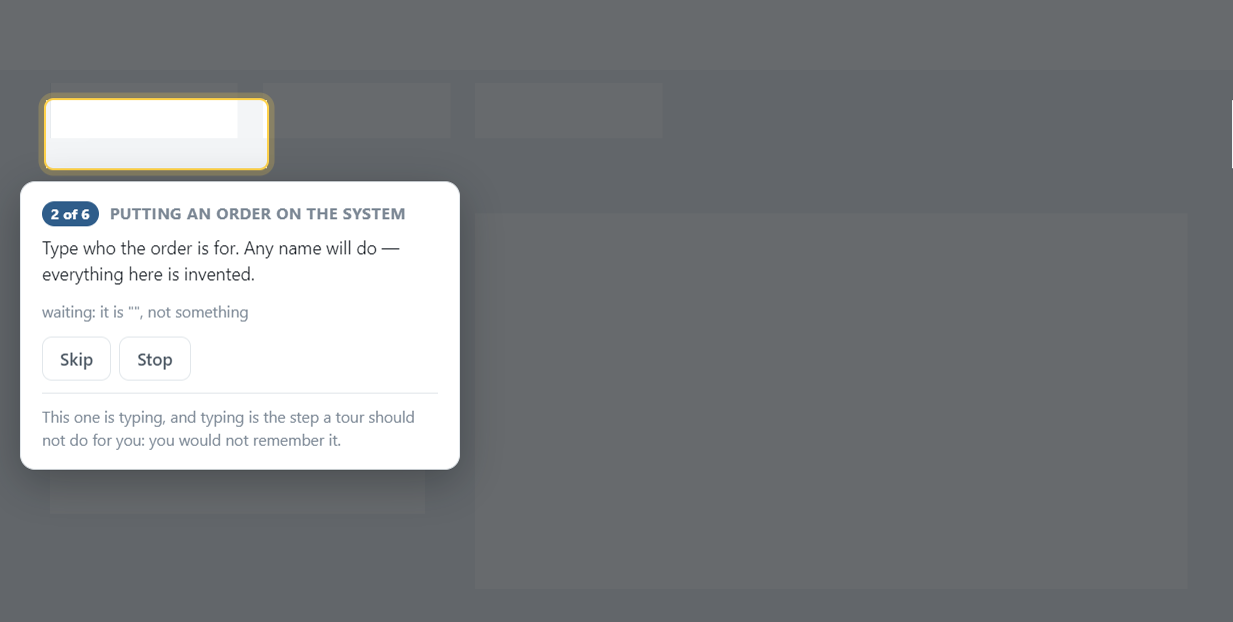
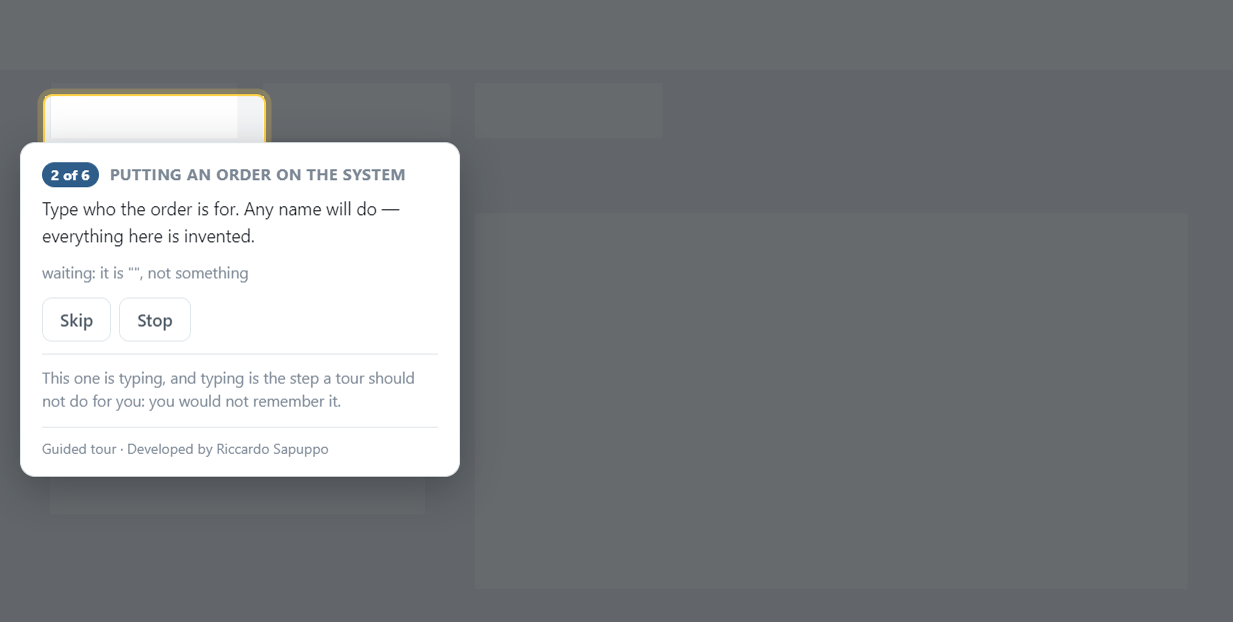
The commands the README documents now actually run
`npm run demo` did not start anything. It said `electron demo/main.js` and the
demo is a PowerShell script — so the very first command a reader types failed
with MODULE_NOT_FOUND. It was in the README, it was in the package, and it had
never once been run.

`npm start` failed too, in an environment where ELECTRON_RUN_AS_NODE is set:
the Electron binary behaves as a plain Node, `electron`'s main export is the
path to itself, and the failure is inside Node's own module loader before a
line of `tour/main.js` executes. Nothing in that file can catch it, so both
commands are launchers now — which is also where a sentence can be printed
instead of a stack trace.

And the attribution was missing entirely. It is at the foot of the card, with
the version read from package.json rather than written down a second time.

Two more things while proving those:

- The walkthrough starts the invented application itself if it is not up, so it
  runs from nothing and CI is one line rather than three.
- It printed the TITLES of every window on the desktop when it could not find
  the right one. A check's output gets pasted into a message to somebody, and
  those titles say what a person was doing, what they had open and who they
  work for. It says how many now.

diff --git a/tour/main.js b/tour/main.js
@@ -32,6 +32,29 @@ import { fileURLToPath } from 'node:url';
 import { accessibility } from '../src/locate/uia.js';
 import { isFinished, watching, whatIsWrongWith, whatToRead } from '../src/tour/steps.js';
 
+/**
+ * Running under Node instead of Electron, which is a sentence rather than a
+ * stack trace.
+ *
+ * `ELECTRON_RUN_AS_NODE` makes the Electron binary behave as a plain Node, and
+ * some tools set it in the environment they hand to their children. When it is
+ * set, `import { app } from 'electron'` gives back the PATH to the binary — a
+ * string — and the first line that touches it dies on
+ * "Cannot read properties of undefined (reading 'whenReady')".
+ *
+ * That message sent me looking for a bug in this file for twenty minutes. It is
+ * two lines to say what actually happened.
+ */
+if (typeof app?.whenReady !== 'function') {
+  console.error('This is being run as plain Node rather than as Electron.');
+  console.error(
+    process.env.ELECTRON_RUN_AS_NODE
+      ? 'ELECTRON_RUN_AS_NODE is set in this environment. Unset it and try again.'
+      : 'Start it with `npm start`, which runs it under Electron.'
+  );
+  process.exit(1);
+}
+
 const here = path.dirname(fileURLToPath(import.meta.url));
 const root = path.join(here, '..');
 
@@ -104,7 +127,14 @@ async function start() {
 
   say('info', 'the tour is up', { tour: tour.title, steps: tour.steps.length, window: tour.window });
 
-  overlay.webContents.send('tour', { title: tour.title, about: tour.about, steps: tour.steps.length });
+  overlay.webContents.send('tour', {
+    title: tour.title,
+    about: tour.about,
+    steps: tour.steps.length,
+    // Read from package.json rather than written down twice. A version in two
+    // places is a version that is wrong in one of them.
+    version: JSON.parse(fs.readFileSync(path.join(root, 'package.json'), 'utf8')).version,
+  });
   await show(0);
 }
 

diff --git a/tour/overlay.html b/tour/overlay.html
@@ -69,6 +69,11 @@
       </footer>
 
       <p class="whyNot" id="whyNot" hidden></p>
+
+      <!-- Who wrote it, where somebody looking at a window covering their
+           screen would think to look for it. Small, and at the bottom: the
+           card is a working control, not a title page. -->
+      <p class="who">Guided tour <span id="version"></span> · Developed by Riccardo Sapuppo</p>
     </section>
 
     <!-- The end. Not a dialog: the tour is over, and the last thing somebody

diff --git a/tour/overlay.css b/tour/overlay.css
@@ -222,3 +222,14 @@ button:focus-visible {
     transition: none;
   }
 }
+
+/* Who wrote it, and which version of it this is. Quiet, and at the foot of the
+   card: somebody looking at a window that covers their screen should be able
+   to find out what it is without hunting. */
+.who {
+  margin: 0.7rem 0 0;
+  padding-top: 0.5rem;
+  border-top: 1px solid var(--line);
+  font-size: 0.7rem;
+  color: var(--ink-faint);
+}

diff --git a/tour/overlay.js b/tour/overlay.js
@@ -150,6 +150,7 @@ $('openLog').addEventListener('click', () => window.tour.openLog());
 // ---------------------------------------------------------- what comes back
 
 window.tour.on('tour', (about) => {
+  document.getElementById('version').textContent = about.version ? `v${about.version}` : '';
   $('title').textContent = about.title;
   $('say').textContent = about.about ?? '';
   coverEverything();

diff --git a/README.md b/README.md
@@ -137,6 +137,9 @@ Then write the steps, and check them before anybody sees them:
 npm run walkthrough
 ```
 
+It starts the invented application itself if it is not already up, so it runs
+from nothing.
+
 ## Checking it
 
 ```
